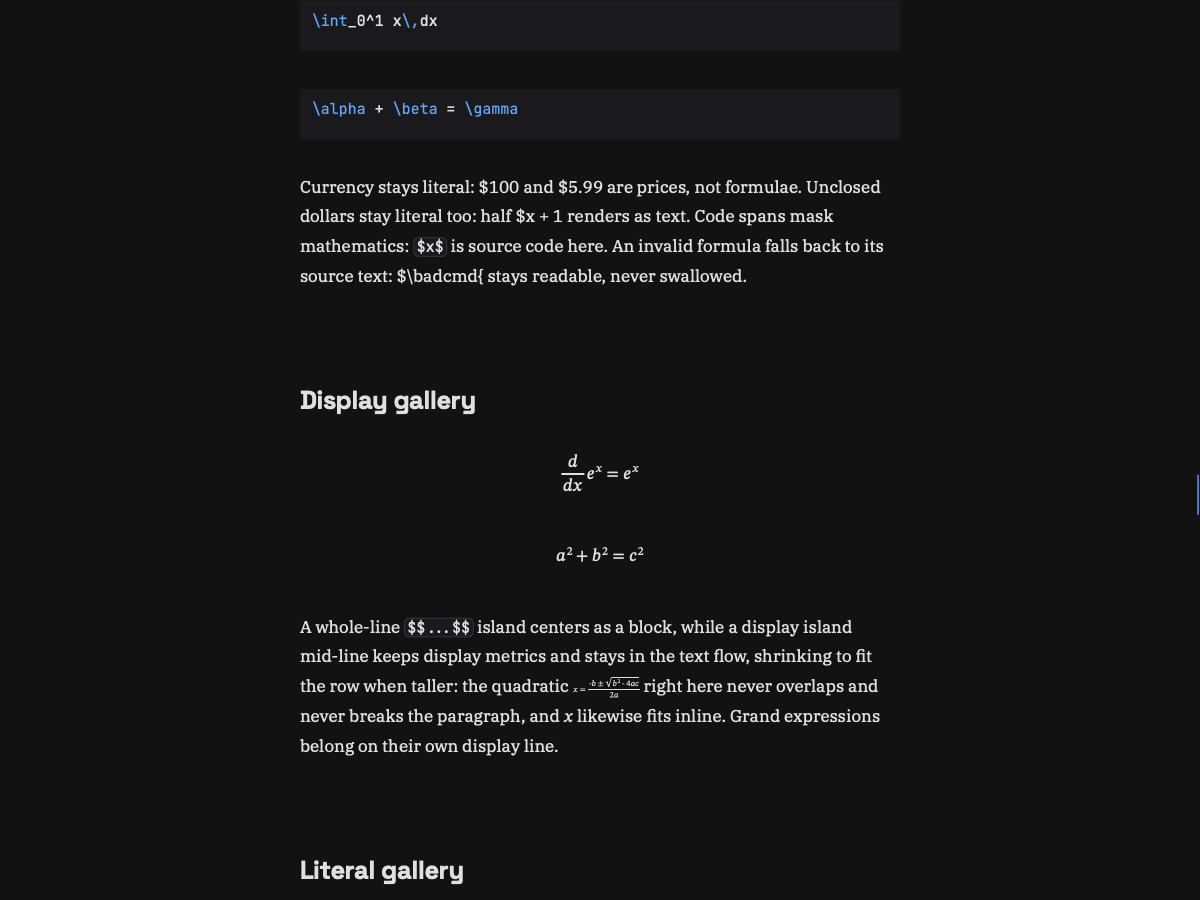
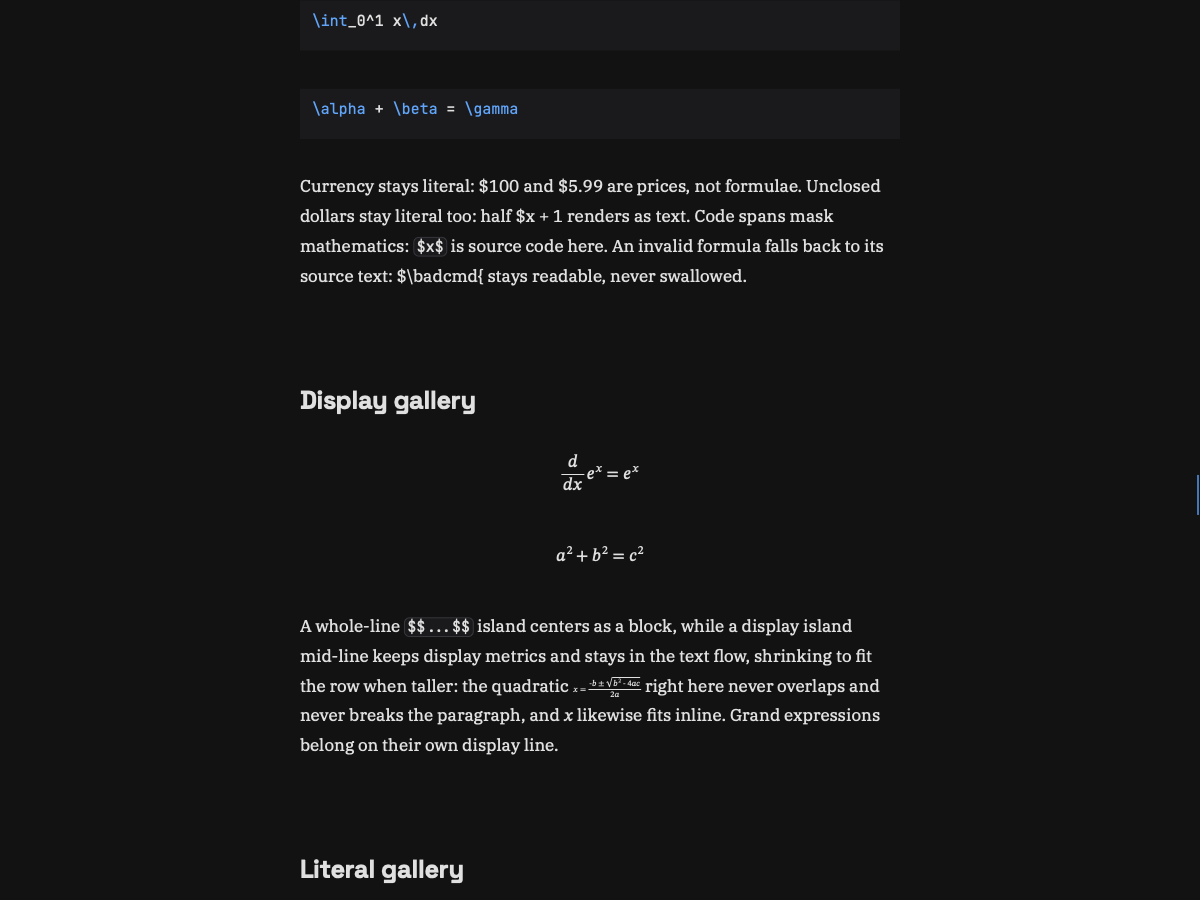
ZaTeX rules: KaTeX-40 weight + round-to-pixel snap (1px vincula)
Provider returned STIX file truth (68) which rasterized 2-device-px
bars at body size; the aef905b cover-snap then guaranteed the
inflation. Return the engine's pinned KaTeX 0.04em weight (40) for all
rule kinds and snap bars round-to-nearest (1px floor), so body-size
fraction bars and vincula draw one crisp row. Verified: engine probe
h tracks the hook; screenshot bars measured 2 rows -> 1 row across
math.png and all four gallery frames; sqrt junctions seamless.
MATH-consts parsing deleted (plugin -144B); spec updated.

diff --git a/src/platform/macos_zatex.m b/src/platform/macos_zatex.m
@@ -285,7 +285,6 @@ static CFDataRef zatex_math_data = NULL;
 static const uint8_t *zatex_math_bytes = NULL;
 static size_t zatex_math_len = 0;
 static size_t zatex_math_ici = 0;
-static size_t zatex_math_consts = 0; // MathConstants offset, 0 = absent
 static int zatex_math_ready = 0;
 
 static uint32_t zatex_u16(const uint8_t *p) {
@@ -303,8 +302,6 @@ static void zatex_ensure_math_table(void) {
     const uint8_t *b = CFDataGetBytePtr(d);
     size_t gi = 0, ic_rel = 0, sub = 0;
     if (!b || n < 10) goto fail;
-    size_t mc = ((size_t)b[4] << 8) | b[5]; // MathConstants, table start
-    if (mc != 0) zatex_math_consts = mc; // bounds checked per read
     gi = ((size_t)b[6] << 8) | b[7];
     if (gi == 0 || gi + 8 > n) goto fail;
     ic_rel = ((size_t)b[gi] << 8) | b[gi + 1];
@@ -362,24 +359,20 @@ static int32_t zatex_italic_correction(const void *ctx, uint16_t font, uint16_t 
     return (int32_t)(int16_t)zatex_u16(b + rec);
 }
 
-// Rule thickness in thousandths of an em, from MATH MathConstants
-// (fraction/radical/overbar/underbar; STIX reports 68 for all four).
-// Offsets derive from the OT order: 8 header bytes, then 4-byte
-// MathValueRecords — fraction 34, overbar 40, underbar 43, radical 47
-// (RadicalVerticalGap sits between underbarExtraDescender and the
-// display gap; verified against raw STIX bytes). Unknown kinds and
-// absent/truncated tables keep the KaTeX 40 default (pre-hook behavior).
-static const uint16_t zatex_rule_off[4] = { 144, 196, 168, 180 };
-
+// Rule thickness in thousandths of an em: KaTeX parity 40 for every
+// kind (engine RuleKind order is fraction, radical, overline,
+// underline — note it differs from the MATH table order).
+// Deliberately NOT the STIX file truth (68 for all four): the engine
+// pins KaTeX-numeric 0.04em parity for rule weights, and 68 draws a
+// 2-device-px vinculum at body size where 40 snaps to one crisp row
+// (measured on screenshots/math_gallery.png). File truth would also
+// widen every clearance the engine derives from the weight. Explicit
+// rather than NULL so the choice survives engine default changes.
 static int32_t zatex_rule_thickness(const void *ctx, uint16_t font, uint32_t kind) {
     (void)ctx;
     (void)font;
-    if (kind > 3) return 40;
-    zatex_ensure_math_table();
-    if (!zatex_math_bytes || zatex_math_consts == 0) return 40;
-    size_t rec = zatex_math_consts + zatex_rule_off[kind];
-    if (rec + 2 > zatex_math_len) return 40;
-    return (int32_t)(int16_t)zatex_u16(zatex_math_bytes + rec);
+    (void)kind;
+    return 40;
 }
 
 static const ZatexMetrics zatex_metrics = {
@@ -457,11 +450,16 @@ void platform_draw_math(const char *tex, int tex_len, int display, float font_px
         // All engine rules are horizontal bars (fraction, vinculum,
         // over/underline): snap y to device pixels so subpixel bars
         // draw crisp instead of fringing across two rows. x/width stay
-        // exact (centering must not shift); height covers at least the
-        // original span.
-        double y0 = floor(rr.origin.y);
-        rr.size.height = ceil(rr.origin.y + rr.size.height) - y0;
+        // exact (centering must not shift). Round, never cover: a
+        // sub-pixel KaTeX weight (0.68px at body) must rasterize one
+        // row, not inflate to two; the 1px floor keeps hairlines from
+        // vanishing at small sizes. Position stays within half a pixel
+        // of layout, so bar-to-ink junctions still meet.
+        double y0 = floor(rr.origin.y + 0.5);
+        double y1 = floor(rr.origin.y + rr.size.height + 0.5);
+        if (y1 <= y0) y1 = y0 + 1.0;
         rr.origin.y = y0;
+        rr.size.height = y1 - y0;
         CGContextFillRect(ctx, rr);
     }
     // Runs: one flipped frame per run, mirroring platform_draw_text

diff --git a/docs/spec.md b/docs/spec.md
@@ -46,9 +46,10 @@ cards and islands as literal text, byte-identical to the pre-math reader.
 True glyph extents and ink bounds feed the engine over the v4 C
 surface (sqrt junction included); MATH-table italic corrections are
 supplied and zero-width combining advances report 0 like the file, so
-accents center by ink on slanted nuclei; rule thickness follows the
-MATH constants (fraction/radical/over/under). Taller delimiter variants
-and kerning corrections stay unwired in v1.
+accents center by ink on slanted nuclei; rule thickness is KaTeX
+parity 40 for every kind (fraction/radical/over/underline), not the
+STIX file truth (68), matching the engine's pinned 0.04em weights.
+Taller delimiter variants and kerning corrections stay unwired in v1.
 v1 limits: inline boxes taller than one row shrink to fit it
 (mid-line display included — never an overlap, never a paragraph
 break); math is not selectable, not
